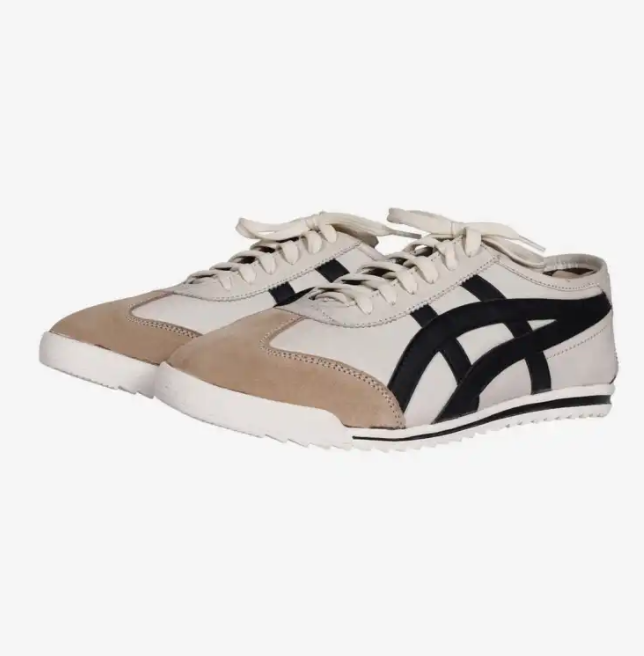
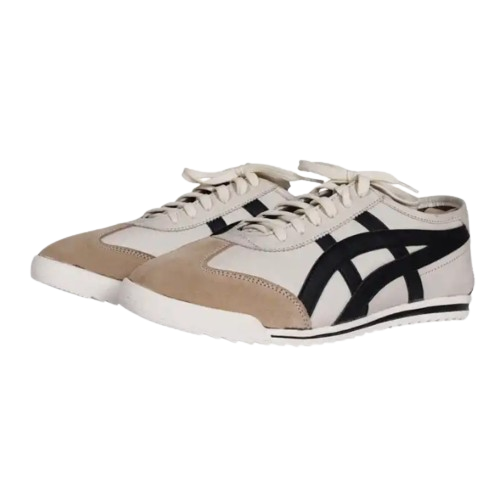
updated image by removing bg

diff --git a/lib/helper/Image_helper.dart b/lib/helper/Image_helper.dart
@@ -4,7 +4,7 @@ import 'package:my_shoes/models/item_model.dart';
 class ImageHelper {
   static const appIcon = 'assets/images/app_icon.png';
   static const nepalLogo = 'assets/images/nepal_logo.png';
-  static const microsoft = 'assets/images/microsoft.png';
+  static const microsoft = 'assets/images/microsoft.jpg';
   static const homeBanner = 'assets/images/banner.png';
   static const map = 'assets/images/map.png';
   static const whatsapp = 'assets/images/whatsapp_logo.jpeg';
@@ -26,96 +26,72 @@ class ImageHelper {
     BrandModel(brandName: 'VANS', brandImage: 'assets/brand/vans.jpeg'),
   ];
 
-  // static const List<String> brandImages = [
-  //   "",
-  //   "assets/brand/adidas.jpeg",
-  //   "assets/brand/converse.jpeg",
-  //   "assets/brand/nike.jpeg",
-  //   "assets/brand/puma.png",
-  //   "assets/brand/reebook.png",
-  //   "assets/brand/tory.jpeg",
-  //   "assets/brand/vans.jpeg",
-  //   "assets/brand/reebook.png",
-  //   "assets/brand/tory.jpeg",
-  //   "assets/brand/vans.jpeg",
-  //   "assets/brand/tory.jpeg",
-  //   "assets/brand/vans.jpeg",
-  //   "assets/brand/tory.jpeg",
-  // ];
   static List<ItemModel> items = [
     ItemModel(
-        itemName: '(UT-912)',
+        itemName: 'UT-912',
         itemImage: 'assets/shoes/11.png',
         itemFullName: 'United Real Leather Sport Shoes For Men (UT-912)',
         itemBrand: 'United Real Leather',
         itemPrice: 'Rs. 2,499'),
     ItemModel(
-        itemName: '(UT-909)',
+        itemName: 'UT-909',
         itemImage: 'assets/shoes/12.png',
         itemFullName: 'United Real Leather Sport Shoes For Men (UT-909)',
         itemBrand: 'United Real Leather',
         itemPrice: 'Rs. 2,499'),
     ItemModel(
-        itemName: '(UT-901)',
+        itemName: 'UT-901',
         itemImage: 'assets/shoes/13.png',
         itemFullName: 'United Real Leather Sport Shoes For Men (UT-901)',
         itemBrand: 'United Real Leather',
         itemPrice: 'Rs. 2,499'),
     ItemModel(
-        itemName: '(UT-901)',
+        itemName: 'UT-901',
         itemImage: 'assets/shoes/14.png',
         itemFullName: 'United Real Leather Sport Shoes For Men (UT-901)',
         itemBrand: 'United Real Leather',
         itemPrice: 'Rs. 2,499'),
     ItemModel(
-        itemName: '(UT-910)',
+        itemName: 'UT-910',
         itemImage: 'assets/shoes/15.png',
         itemFullName: 'United Real Leather Sportive Shoes For Men ( UT-910)',
         itemBrand: 'United Real Leather',
         itemPrice: 'Rs. 2,499'),
     ItemModel(
-        itemName: '(UT-951)',
+        itemName: 'UT-951',
         itemImage: 'assets/shoes/16.png',
         itemFullName: 'United Real Leather Sport Shoes For Men (UT-951)',
         itemBrand: 'United Real Leather',
         itemPrice: 'Rs. 2,499'),
     ItemModel(
-        itemName: '(UT-909)',
+        itemName: 'UT-909',
         itemImage: 'assets/shoes/17.png',
         itemFullName: 'United Real Leather Sport Shoes For Men (UT-909)',
         itemBrand: 'United Real Leather',
         itemPrice: 'Rs. 2,499'),
     ItemModel(
-        itemName: '(UT-901)',
+        itemName: 'UT-901',
         itemImage: 'assets/shoes/18.png',
         itemFullName: 'United Real Leather Sport Shoes For Men (UT-901)',
         itemBrand: 'United Real Leather',
         itemPrice: 'Rs. 2,499'),
     ItemModel(
-        itemName: '(UT-551)',
+        itemName: 'UT-551',
         itemImage: 'assets/shoes/19.png',
         itemFullName: 'United Real Leather Sport Shoes For Women (UT-551)',
         itemBrand: 'United Real Leather',
         itemPrice: 'Rs. 2,499'),
     ItemModel(
-        itemName: '(UT-910)',
+        itemName: 'UT-910',
         itemImage: 'assets/shoes/20.png',
         itemFullName: 'United Real Leather Sportive Shoes For Men ( UT-910)',
         itemBrand: 'United Real Leather',
         itemPrice: 'Rs. 2,499'),
     ItemModel(
-        itemName: '(UT-903)',
+        itemName: 'UT-903',
         itemImage: 'assets/shoes/21.png',
         itemFullName: 'United Real Leather Sportive Shoes For Men ( UT-903)',
         itemBrand: 'United Real Leather',
         itemPrice: 'Rs. 2,499'),
   ];
-  // static const Map<String, String> shoesImagesWithName = {
-  //   "":
-  //       "",
-  //   "United Real Leather Sport Shoes For Men (UT-909)": "assets/shoes/12.png",
-  //   "United Real Leather Sport Shoes For Men ( UT-901)": "assets/shoes/13.png",
-  //   "United Real Leather Sport Shoes For Men 1( UT-901)": "assets/shoes/14.png",
-  //   "United Real Leather Sport Shoes For Men 2( UT-901)": "assets/shoes/15.png",
-  // };
 }

diff --git a/lib/screens/home_screen.dart b/lib/screens/home_screen.dart
@@ -18,7 +18,7 @@ class _HomeScreenState extends State<HomeScreen> {
     return Scaffold(
       appBar: const AppBarWidget(slogon: ''),
       body: Padding(
-        padding: const EdgeInsets.only(left: 12, right: 12),
+        padding: const EdgeInsets.symmetric(horizontal: 12),
         child: Column(
           crossAxisAlignment: CrossAxisAlignment.start,
           children: [
@@ -125,12 +125,15 @@ class _HomeScreenState extends State<HomeScreen> {
                 child: Row(
               children: [
                 SizedBox(
-                    height: 50,
-                    width: 50,
+                    height: 30,
+                    width: 30,
                     child: Image.asset(ImageHelper.imepayLogo)),
-                const Text(
-                  'Payment Partner',
-                  style: TextStyle(fontSize: 16),
+                const Padding(
+                  padding: EdgeInsets.all(12.0),
+                  child: Text(
+                    'Payment Partner',
+                    style: TextStyle(fontSize: 16),
+                  ),
                 )
               ],
             ))
